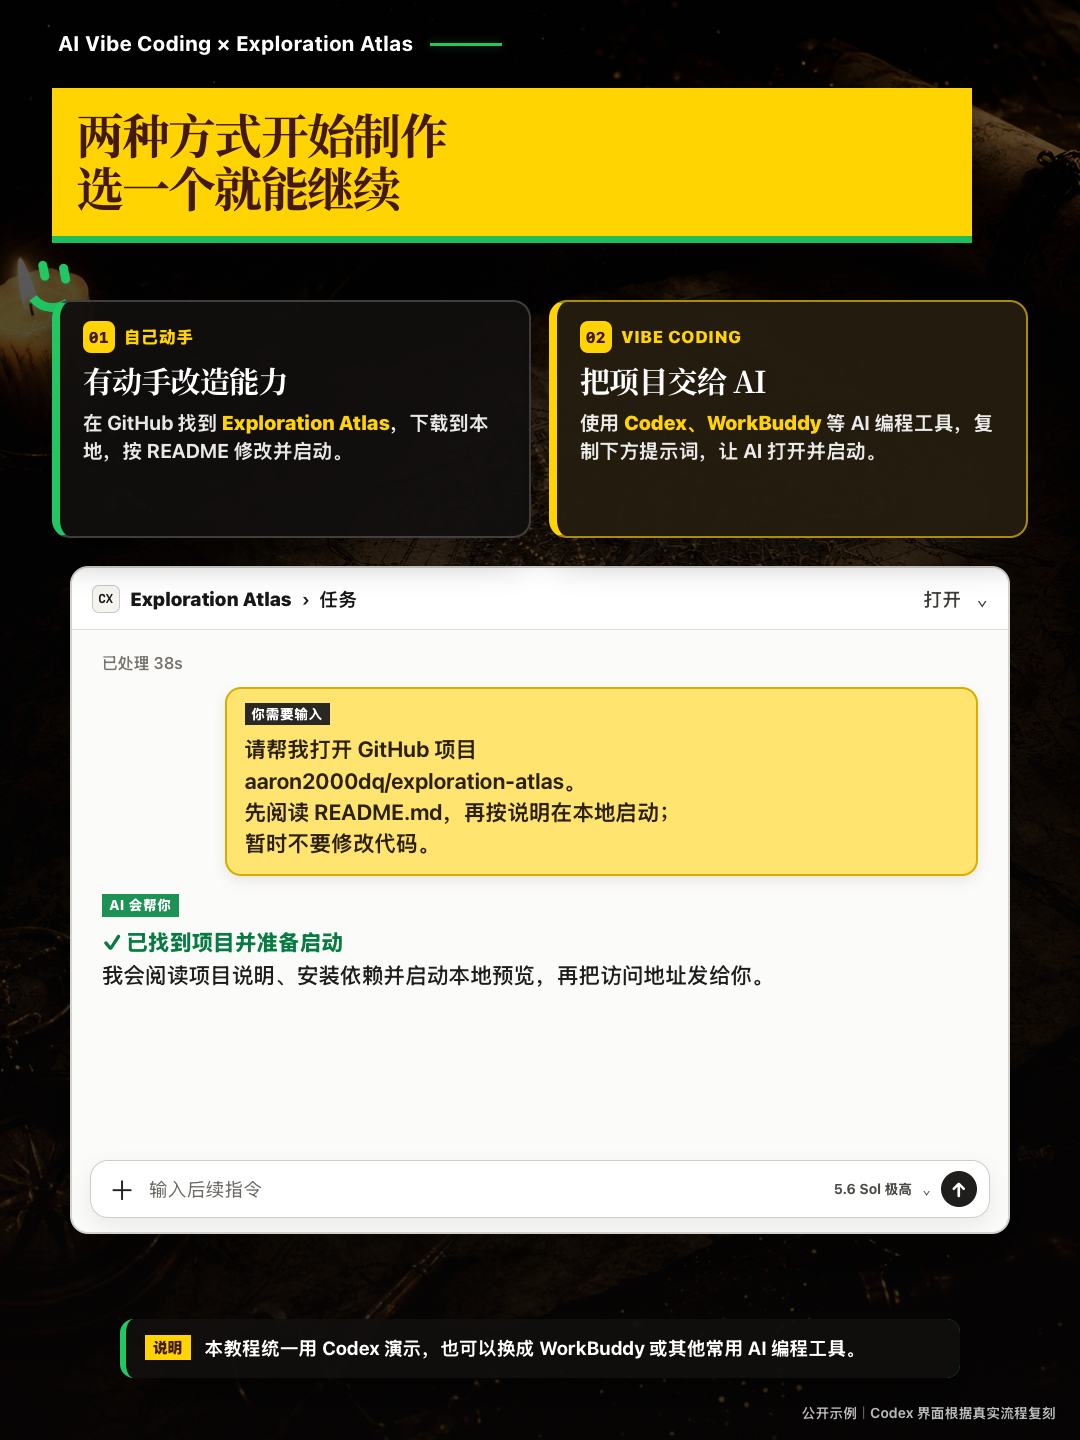
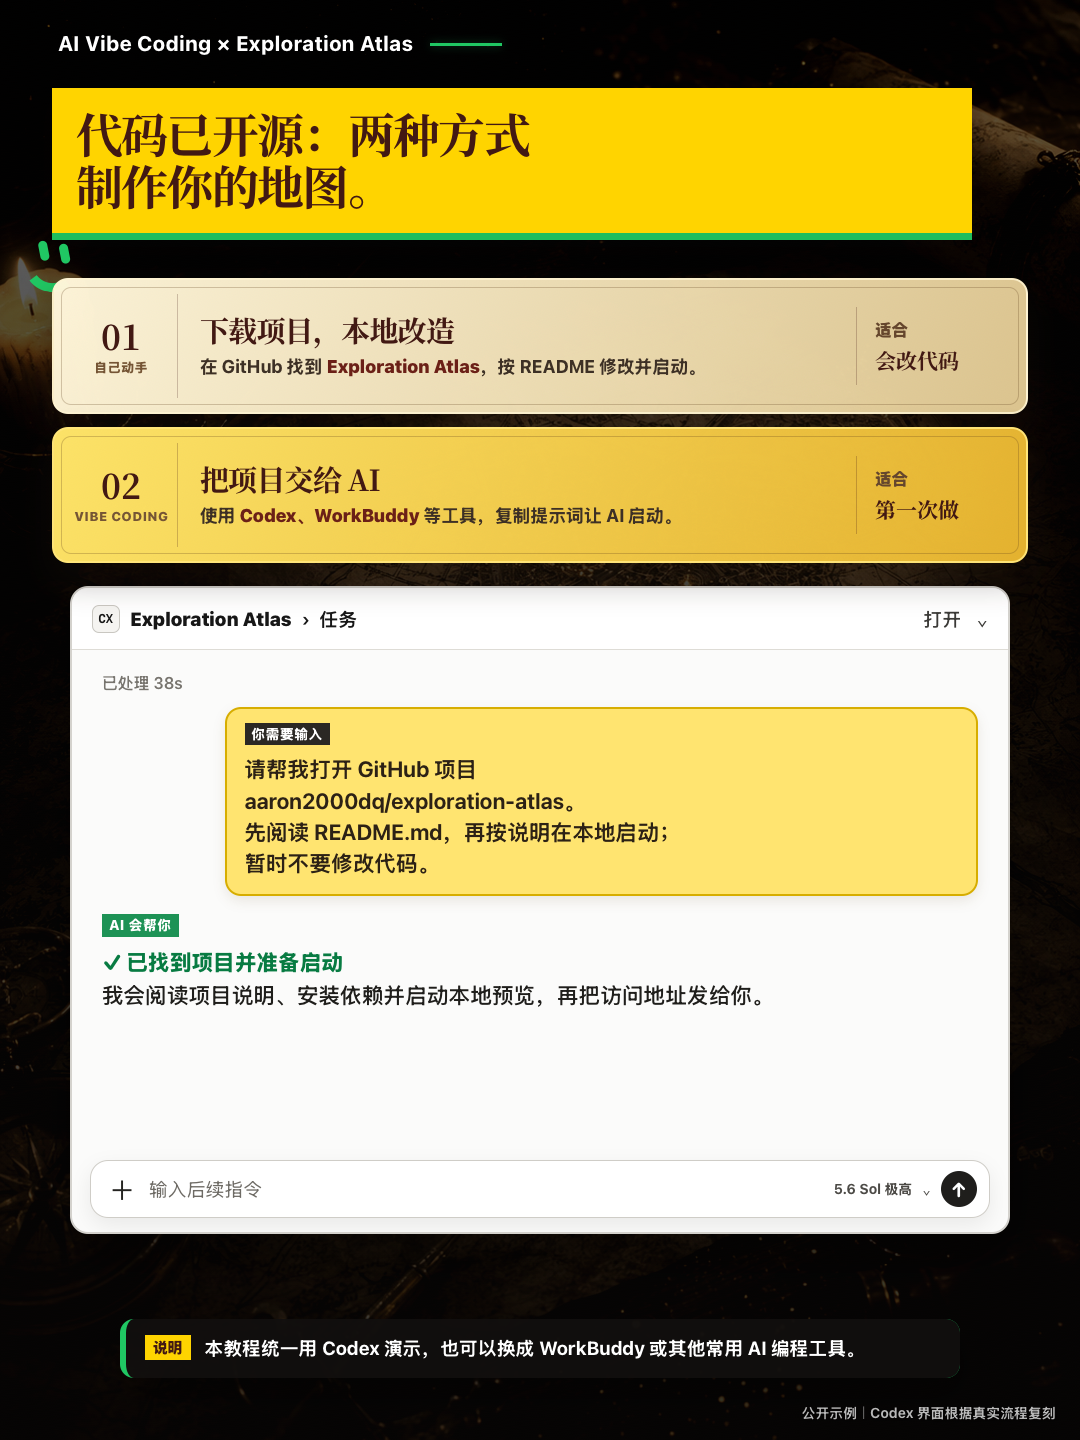
Refine the tutorial start paths

Changed region(s): [[0.0306, 0.0625, 0.9778, 0.5], [0.0917, 0.4688, 0.9167, 0.7188], [0.5194, 0.6562, 0.7028, 0.7188]]

diff --git a/docs/AI_VIBE_CODING_TUTORIAL.md b/docs/AI_VIBE_CODING_TUTORIAL.md
@@ -24,7 +24,7 @@
 
 这是一张可以在纪念日使用的活点地图。它适合生日、周年和其他重要日子：TA 从开启邀请开始，跟随地图寻找你设置的地点，抵达后触发照片任务与惊喜揭晓，最后完成整场探索。你决定地点与惊喜，AI 负责地图、定位解锁、触发逻辑和网页制作。
 
-## 03｜选择一种开始方式
+## 03｜代码已开源：两种方式制作你的地图
 
 ![让 Codex 在 GitHub 找到项目](tutorial/03-find-on-github.png)
 
